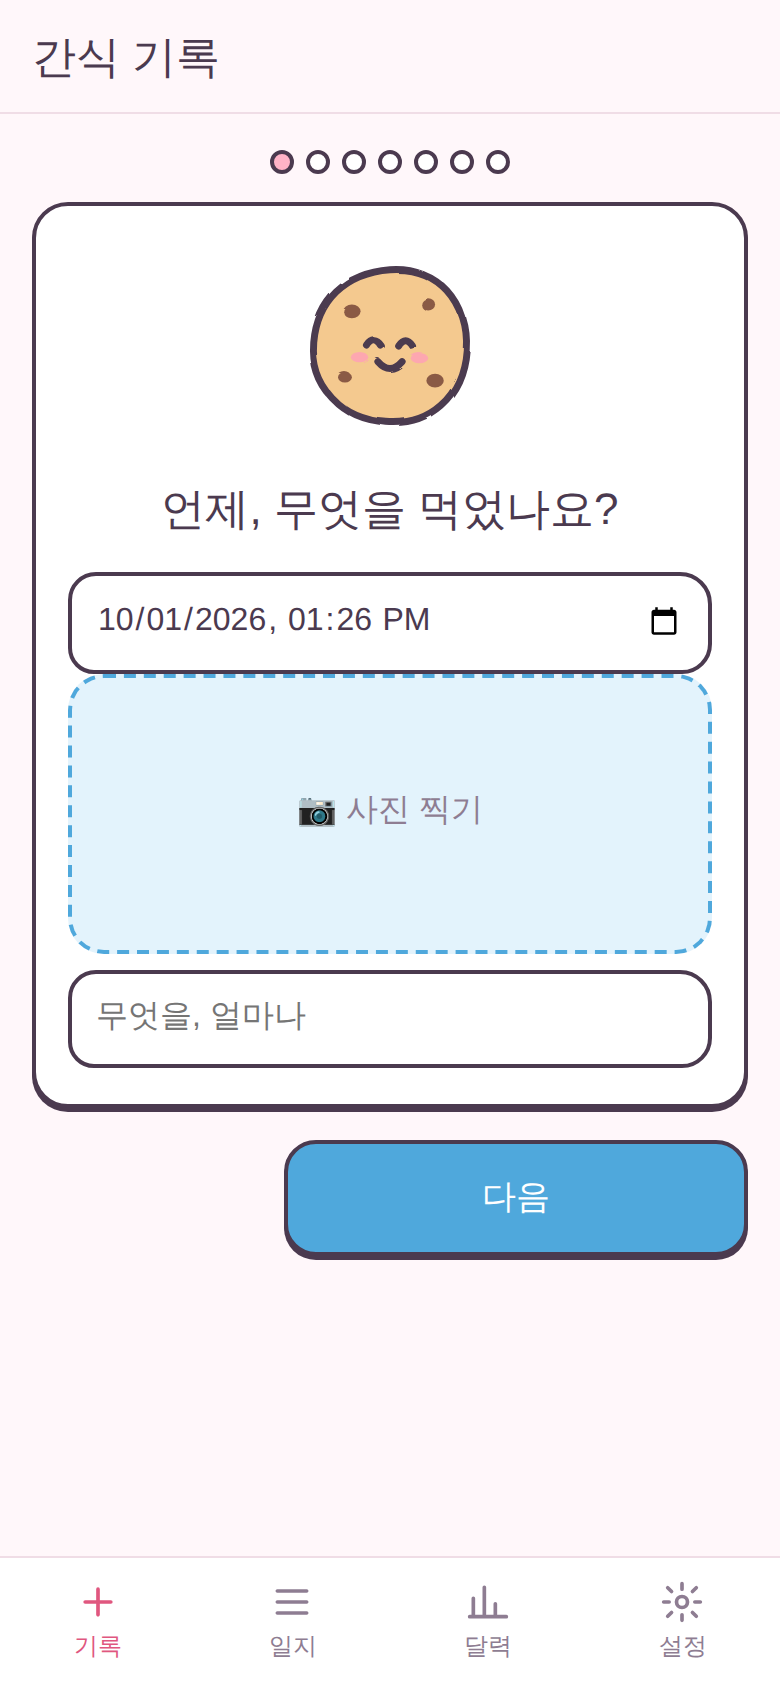
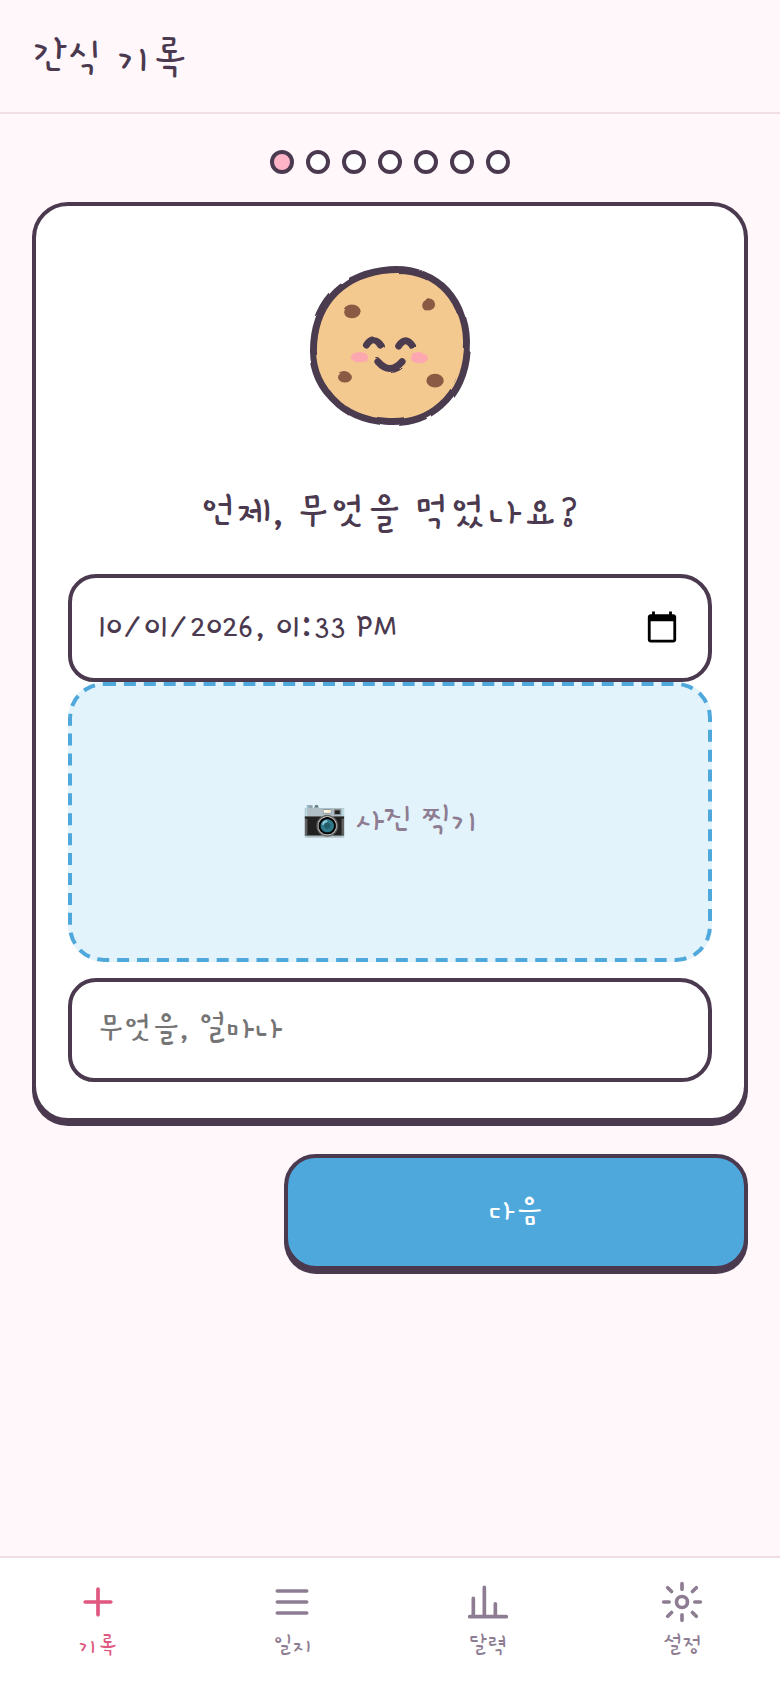
Gamja Flower font, craving scale, per-emotion after-eating satisfaction
- Use Gamja Flower font throughout
- Rename hunger to craving (먹고 싶음); drop emotion intensity and control question
- Add '먹고 난 후' card: 7-cell fill per selected emotion (+1..+7)
- Calendar, list, stats and CSV use the satisfaction data

Claude-Session: https://claude.ai/code/session_01D68hpE9EAyDwW3YvrEEF6Q

diff --git a/app.js b/app.js
@@ -6,9 +6,10 @@ import { character } from './characters.js';
 // 선행 사건(상황) → 신체/정서 상태(배고픔·느낌) → 인지(기대) → 행동(먹은 것)
 const PLACES = ['집', '회사·학교', '이동 중', '카페·식당', '편의점·마트', '기타'];
 const ACTIVITIES = ['일·공부 중', '쉬는 중', 'TV·폰 보는 중', '혼자 있음', '누군가와 함께', '다툼·갈등 후', '식사 직후', '잠들기 전', '할 일 미루는 중', '음식을 봄·냄새 맡음'];
-const EMOTIONS = ['스트레스', '불안', '지루함', '외로움', '슬픔·우울', '짜증·화', '피곤함', '공허함', '죄책감', '기쁨·신남', '편안함', '보상받고 싶음'];
+const EMOTIONS = ['스트레스', '불안', '지루함', '외로움', '슬픔·우울', '짜증·화', '피곤함', '허전함', '단 게 먹고 싶음', '죄책감', '기쁨·신남', '편안함', '보상받고 싶음'];
 const EXPECTATIONS = ['기분이 나아질 것', '스트레스가 풀릴 것', '위로받을 것', '나에게 주는 보상', '지루함이 사라질 것', '에너지가 생길 것', '잠깐 잊을 수 있을 것', '배고픔 해결', '그냥 습관처럼', '조금만 먹고 멈출 수 있을 것'];
-const LOC = { yes: '조절 못 했다', unsure: '잘 모르겠다', no: '조절했다' };
+const LOC = { yes: '조절 못 했다', unsure: '잘 모르겠다', no: '조절했다' }; // 예전 기록 표시용
+const SAT_MAX = 7;
 
 // ───────────────────────── 유틸 ─────────────────────────
 const $ = (sel, root = document) => root.querySelector(sel);
@@ -109,6 +110,16 @@ function wireChoices(root) {
       chip.setAttribute('aria-pressed', String(!on));
       return;
     }
+    const cell = e.target.closest('.sat .cell');
+    if (cell && root.contains(cell)) {
+      const row = cell.closest('.sat');
+      const n = Number(cell.dataset.n);
+      const v = Number(row.dataset.value) === n ? 0 : n; // 같은 칸을 다시 누르면 비움
+      row.dataset.value = v;
+      $$('.cell', row).forEach((c, i) => c.classList.toggle('on', i < v));
+      $('.sat-val', row).textContent = v ? `+${v}` : '';
+      return;
+    }
     const dot = e.target.closest('.dot');
     if (dot && root.contains(dot)) {
       const on = dot.getAttribute('aria-pressed') === 'true';
@@ -120,21 +131,46 @@ function wireChoices(root) {
 
 // 감정·점수 → 캐릭터 표정
 const EMOTION_MOOD = {
-  스트레스: 'worried', 불안: 'worried', '짜증·화': 'worried', 죄책감: 'sad', '슬픔·우울': 'sad', 외로움: 'sad', 공허함: 'sad',
+  스트레스: 'worried', 불안: 'worried', '짜증·화': 'worried', 죄책감: 'sad', '슬픔·우울': 'sad', 외로움: 'sad', 공허함: 'sad', 허전함: 'sad', '단 게 먹고 싶음': 'curious',
   지루함: 'curious', 피곤함: 'calm', '기쁨·신남': 'happy', 편안함: 'calm', '보상받고 싶음': 'curious',
 };
+
+// 먹고 난 후: 감정별 만족도 (1~7칸 채움)
+const avgSat = (sat) => {
+  const v = Object.values(sat || {});
+  return v.length ? v.reduce((a, b) => a + b, 0) / v.length : null;
+};
+const satMood = (avg) => (avg == null ? null : avg >= 5.5 ? 'happy' : avg >= 3.5 ? 'calm' : avg >= 2 ? 'worried' : 'sad');
+
+function satRow(emotion, value) {
+  return `<div class="sat" data-emotion="${esc(emotion)}" data-value="${value || 0}">
+    <span class="sat-label">${esc(emotion)}</span>
+    <div class="sat-cells">${Array.from({ length: SAT_MAX }, (_, i) => `<button type="button" class="cell${i < (value || 0) ? ' on' : ''}" data-n="${i + 1}" aria-label="+${i + 1}"></button>`).join('')}</div>
+    <span class="sat-val">${value ? `+${value}` : ''}</span>
+  </div>`;
+}
+function readSat(root) {
+  const out = {};
+  $$('.sat', root).forEach((r) => {
+    const v = Number(r.dataset.value);
+    if (v) out[r.dataset.emotion] = v;
+  });
+  return out;
+}
+function satBar(value) {
+  return `<span class="sat-cells mini">${Array.from({ length: SAT_MAX }, (_, i) => `<i class="cell${i < value ? ' on' : ''}"></i>`).join('')}</span> <b>+${value}</b>`;
+}
 
 function wireMoods(form) {
   const update = () => {
     $$('.wcard', form).forEach((card) => {
       let mood = null;
       const v = (n) => readScale(card, n);
-      if ($('.scale[data-name=hunger]', card) && v('hunger') != null) mood = v('hunger') >= 7 ? 'happy' : v('hunger') >= 4 ? 'calm' : 'curious';
+      if ($('.scale[data-name=craving]', card) && v('craving') != null) mood = v('craving') >= 7 ? 'worried' : v('craving') >= 4 ? 'curious' : 'calm';
       const em = readChips(card, 'emotions');
       if (em.length) mood = EMOTION_MOOD[em[em.length - 1]] || mood;
-      for (const n of ['intensity']) if ($(`.scale[data-name=${n}]`, card) && v(n) != null) mood = v(n) >= 7 ? 'worried' : v(n) >= 4 ? 'curious' : 'calm';
-      const loc = readChips(card, 'loc')[0];
-      if (loc) mood = loc === LOC.yes ? 'sad' : loc === LOC.no ? 'happy' : 'curious';
+      const sat = readSat(card);
+      if (Object.keys(sat).length) mood = satMood(avgSat(sat));
       if (mood && card.dataset.mood !== mood) {
         card.dataset.mood = mood;
         setMood(card, mood);
@@ -258,17 +294,15 @@ async function renderForm(id) {
       },
       {
         char: 'donut', mood: 'curious',
-        title: '배고픔',
+        title: '먹고 싶음',
         body: `
-          ${scale('hunger', e.hunger, '전혀 안 고픔', '매우 고픔')}`,
+          ${scale('craving', e.craving ?? e.hunger, '조금', '참기 힘들 만큼')}`,
       },
       {
         char: 'icecream', mood: 'curious',
         title: '느낌',
         body: `
           ${chips('emotions', EMOTIONS, e.emotions || [])}
-          <h3>강도</h3>
-          ${scale('intensity', e.intensity, '약함', '매우 강함')}
           <textarea name="feelingNote" rows="2" placeholder="떠오른 생각·몸의 느낌 (선택)">${esc(e.feelingNote)}</textarea>`,
       },
       {
@@ -279,9 +313,17 @@ async function renderForm(id) {
           <textarea name="expectationNote" rows="2" placeholder="직접 적기 (선택)">${esc(e.expectationNote)}</textarea>`,
       },
       {
-        char: 'cookie', mood: 'calm',
-        title: '양을 조절했나요?',
-        body: chips('loc', Object.values(LOC), e.loc ? [LOC[e.loc]] : [], false),
+        char: 'donut', mood: 'calm',
+        title: '먹고 난 후',
+        body: `<p class="hint center">고른 느낌이 얼마나 채워졌나요? (최대 +${SAT_MAX})</p><div class="sat-list"></div>`,
+        onShow: (card) => {
+          const list = $('.sat-list', card);
+          const prev = { ...(e.after || {}), ...readSat(card) };
+          const emos = readChips(form, 'emotions');
+          list.innerHTML = emos.length
+            ? emos.map((em) => satRow(em, prev[em])).join('')
+            : '<p class="hint center">앞에서 고른 느낌이 없어요.</p>';
+        },
       },
       {
         char: 'chips', mood: 'happy',
@@ -295,6 +337,7 @@ async function renderForm(id) {
             ['📍', [readChips(form, 'place')[0], ...readChips(form, 'activity')].filter(Boolean).join(', ')],
             ['💭', readChips(form, 'emotions').join(', ')],
             ['✨', readChips(form, 'expectations').join(', ')],
+            ['🍃', Object.entries(readSat(form)).map(([k, v]) => `${k} +${v}`).join(', ')],
           ].filter(([, v]) => v);
           $('.summary', card).innerHTML = parts.map(([k, v]) => `<div><span>${k}</span>${esc(v)}</div>`).join('');
         },
@@ -328,7 +371,6 @@ async function renderForm(id) {
   form.addEventListener('submit', async (ev) => {
     ev.preventDefault();
     const fd = new FormData(form);
-    const locLabel = readChips(form, 'loc')[0];
     const saved = {
       ...e,
       id: e.id || uid(),
@@ -340,13 +382,12 @@ async function renderForm(id) {
       place: readChips(form, 'place')[0] || '',
       activity: readChips(form, 'activity'),
       situation: fd.get('situation').trim(),
-      hunger: readScale(form, 'hunger'),
+      craving: readScale(form, 'craving'),
       emotions: readChips(form, 'emotions'),
-      intensity: readScale(form, 'intensity'),
       feelingNote: fd.get('feelingNote').trim(),
       expectations: readChips(form, 'expectations'),
       expectationNote: fd.get('expectationNote').trim(),
-      loc: Object.keys(LOC).find((k) => LOC[k] === locLabel) || '',
+      after: readSat(form),
     };
     await db.put(saved);
     toast('저장했어요');
@@ -373,15 +414,19 @@ async function renderEntry(id) {
         ${row('장소', e.place)}
         ${row('하던 일', e.activity)}
         ${row('직전 상황', e.situation)}
-        ${row('배고픔', e.hunger != null ? `${e.hunger} / 10` : '')}
+        ${row('먹고 싶음', (e.craving ?? e.hunger) != null ? `${e.craving ?? e.hunger} / 10` : '')}
         ${row('느낌', e.emotions)}
-        ${row('감정 강도', e.intensity != null ? `${e.intensity} / 10` : '')}
         ${row('생각·몸의 느낌', e.feelingNote)}
         ${row('기대', e.expectations)}
         ${row('기대 메모', e.expectationNote)}
         ${row('조절', LOC[e.loc])}
       </dl>
     </section>
+    ${
+      e.after && Object.keys(e.after).length
+        ? `<section class="card"><h2>먹고 난 후</h2><dl>${Object.entries(e.after).map(([k, v]) => `<div class="row"><dt>${esc(k)}</dt><dd>${satBar(v)}</dd></div>`).join('')}</dl></section>`
+        : ''
+    }
     <div class="actions">
       <a class="button" href="#/edit/${e.id}">수정</a>
       <button type="button" class="danger" id="del">삭제</button>
@@ -417,12 +462,11 @@ async function renderList() {
         ${items
           .map(
             (e) => `<li><a href="#/entry/${e.id}" class="entry">
-              <div class="thumb">${e.photo ? `<img src="${photoUrl(e.photo)}" alt="" loading="lazy" />` : character('cookie', e.loc === 'yes' ? 'worried' : 'happy')}</div>
+              <div class="thumb">${e.photo ? `<img src="${photoUrl(e.photo)}" alt="" loading="lazy" />` : character('cookie', satMood(avgSat(e.after)) || 'calm')}</div>
               <div class="body">
                 <div class="line1"><b>${fmtTime(e.time)}</b> ${esc(e.food || '')}</div>
                 <div class="line2">${[e.place, ...(e.emotions || [])].filter(Boolean).slice(0, 4).map((t) => `<span class="tag">${esc(t)}</span>`).join('')}</div>
               </div>
-              ${e.loc === 'yes' ? '<span class="flag" title="조절 못 함">!</span>' : ''}
             </a></li>`
           )
           .join('')}
@@ -471,12 +515,14 @@ function calendar(all) {
   for (let d = 1; d <= days; d++) {
     const k = `${calMonth}-${pad(d)}`;
     const list = byDay.get(k) || [];
-    const binge = list.some((e) => e.loc === 'yes');
-    if (list.length) binge ? bingeDays++ : okDays++;
-    const cls = ['day-cell', binge ? 'binge' : list.length ? 'ok' : '', k === today ? 'today' : '', k === calDay ? 'sel' : ''].join(' ');
+    const sats = list.map((e) => avgSat(e.after)).filter((v) => v != null);
+    const avg = sats.length ? sats.reduce((a, b) => a + b, 0) / sats.length : null;
+    const low = avg != null && avg < 3.5;
+    if (list.length) low ? bingeDays++ : okDays++;
+    const cls = ['day-cell', low ? 'binge' : list.length ? 'ok' : '', k === today ? 'today' : '', k === calDay ? 'sel' : ''].join(' ');
     cells.push(`<button type="button" class="${cls}" data-day="${k}">
       <span class="d">${d}</span>
-      ${list.length ? character('cookie', binge ? 'sad' : 'happy') : ''}
+      ${list.length ? character('cookie', satMood(avg) || 'calm') : ''}
       ${list.length > 1 ? `<span class="cnt">${list.length}</span>` : ''}
     </button>`);
   }
@@ -490,8 +536,8 @@ function calendar(all) {
     <div class="cal-grid wk">${WEEK.map((w) => `<div>${w}</div>`).join('')}</div>
     <div class="cal-grid">${cells.join('')}</div>
     <div class="cal-legend">
-      <span>${character('cookie', 'sad')} 폭식한 날 <b>${bingeDays}</b></span>
-      <span>${character('cookie', 'happy')} 폭식 없는 날 <b>${okDays}</b></span>
+      <span>${character('cookie', 'worried')} 만족 낮은 날 <b>${bingeDays}</b></span>
+      <span>${character('cookie', 'happy')} 그 외 <b>${okDays}</b></span>
     </div>
     ${
       calDay
@@ -500,7 +546,7 @@ function calendar(all) {
             ${
               sel
                 ? `<ul class="entries">${sel
-                    .map((e) => `<li><a href="#/entry/${e.id}" class="entry"><div class="body"><div class="line1"><b>${fmtTime(e.time)}</b> ${esc(e.food || '')}</div><div class="line2">${(e.emotions || []).slice(0, 3).map((t) => `<span class="tag">${esc(t)}</span>`).join('')}</div></div>${e.loc === 'yes' ? '<span class="flag">!</span>' : ''}</a></li>`)
+                    .map((e) => `<li><a href="#/entry/${e.id}" class="entry"><div class="body"><div class="line1"><b>${fmtTime(e.time)}</b> ${esc(e.food || '')}</div><div class="line2">${(e.emotions || []).slice(0, 3).map((t) => `<span class="tag">${esc(t)}</span>`).join('')}</div></div>${e.after && Object.keys(e.after).length ? `<span class="sat-avg">+${avgSat(e.after).toFixed(1)}</span>` : ''}</a></li>`)
                     .join('')}</ul>`
                 : '<p class="hint">기록 없음</p>'
             }
@@ -524,10 +570,17 @@ async function renderInsights() {
   const hmax = Math.max(1, ...hours);
   const peak = hours.indexOf(Math.max(...hours));
 
-  const lowHunger = list.filter((e) => e.hunger != null && e.hunger <= 3).length;
-  const withHunger = list.filter((e) => e.hunger != null).length;
-  const bingeDays = new Set(list.filter((e) => e.loc === 'yes').map((e) => e.time.slice(0, 10))).size;
+  const cravings = list.map((e) => e.craving ?? e.hunger).filter((v) => v != null);
+  const avgCraving = cravings.length ? cravings.reduce((a, b) => a + b, 0) / cravings.length : null;
   const recDays = new Set(list.map((e) => e.time.slice(0, 10))).size;
+  // 감정별 평균 만족도: 그 느낌이 먹어서 실제로 얼마나 채워졌는지
+  const satBy = new Map();
+  for (const e of list) for (const [k, v] of Object.entries(e.after || {})) {
+    const t = satBy.get(k) || { sum: 0, n: 0 };
+    t.sum += v; t.n++;
+    satBy.set(k, t);
+  }
+  const satRows = [...satBy.entries()].map(([k, t]) => [k, t.sum / t.n, t.n]).sort((a, b) => a[1] - b[1]);
 
   view.innerHTML = `
     ${calendar(all)}
@@ -544,8 +597,8 @@ async function renderInsights() {
         : `
     <div class="stats">
       <div class="stat"><b>${n}</b><span>간식 횟수</span></div>
-      <div class="stat"><b>${bingeDays}<small>/${recDays}일</small></b><span>폭식한 날</span></div>
-      <div class="stat"><b>${withHunger ? Math.round((lowHunger / withHunger) * 100) : '–'}%</b><span>배고프지 않을 때<br/>(배고픔 0–3)</span></div>
+      <div class="stat"><b>${recDays}일</b><span>기록한 날</span></div>
+      <div class="stat"><b>${avgCraving != null ? avgCraving.toFixed(1) : '–'}</b><span>평균 먹고 싶음 (10점)</span></div>
       <div class="stat"><b>${peak}시</b><span>가장 많이 먹는 시간</span></div>
     </div>
 
@@ -558,6 +611,11 @@ async function renderInsights() {
     </section>
 
     <section class="card"><h2>감정</h2>${bars(count(list, (e) => e.emotions), n)}</section>
+    <section class="card"><h2>먹고 난 후 만족도</h2>${
+      satRows.length
+        ? `<p class="hint">느낌별 평균 (최대 +${SAT_MAX})</p><ul class="sat-stats">${satRows.map(([k, avg, c]) => `<li><span class="label">${esc(k)}</span>${satBar(Math.round(avg))}<small>${c}회</small></li>`).join('')}</ul>`
+        : '<p class="hint">"먹고 난 후"를 기록하면 여기에 보여요.</p>'
+    }</section>
     <section class="card"><h2>상황</h2>${bars(count(list, (e) => e.activity), n)}</section>
     <section class="card"><h2>장소</h2>${bars(count(list, (e) => e.place), n)}</section>
     <section class="card"><h2>기대</h2>${bars(count(list, (e) => e.expectations), n)}</section>`
@@ -635,9 +693,9 @@ async function renderSettings() {
 
   $('#csv').addEventListener('click', async () => {
     const list = (await db.all()).reverse();
-    const head = ['시간', '먹은 것', '장소', '하던 일', '직전 상황', '배고픔', '느낌', '감정 강도', '생각·몸의 느낌', '기대', '기대 메모', '조절'];
+    const head = ['시간', '먹은 것', '장소', '하던 일', '직전 상황', '먹고 싶음', '느낌', '생각·몸의 느낌', '기대', '기대 메모', '먹고 난 후'];
     const rows = list.map((e) => {
-      return [e.time.replace('T', ' '), e.food, e.place, e.activity, e.situation, e.hunger, e.emotions, e.intensity, e.feelingNote, e.expectations, e.expectationNote, LOC[e.loc]].map(csvCell).join(',');
+      return [e.time.replace('T', ' '), e.food, e.place, e.activity, e.situation, e.craving ?? e.hunger, e.emotions, e.feelingNote, e.expectations, e.expectationNote, Object.entries(e.after || {}).map(([k, v]) => `${k} +${v}`)].map(csvCell).join(',');
     });
     download(`간식일지_${nowLocal().slice(0, 10)}.csv`, '' + [head.join(','), ...rows].join('\n'), 'text/csv;charset=utf-8');
   });

diff --git a/style.css b/style.css
@@ -216,8 +216,8 @@ dd { margin: 0; white-space: pre-wrap; }
 #toast.show { opacity: 1; transform: translate(-50%, 0); }
 
 /* ───────── 손그림 캐릭터 테마 ───────── */
-body { font-family: "Gowun Dodum", -apple-system, "Apple SD Gothic Neo", "Noto Sans KR", sans-serif; }
-h1, h2, h3, .bubble, .chip, button, .button, .tabbar a, .stat b, .day { font-family: "Jua", "Gowun Dodum", sans-serif; font-weight: 400 !important; }
+body { font-family: "Gamja Flower", -apple-system, "Apple SD Gothic Neo", "Noto Sans KR", sans-serif; }
+h1, h2, h3, .bubble, .chip, button, .button, .tabbar a, .stat b, .day { font-family: "Gamja Flower", sans-serif; font-weight: 400 !important; }
 .topbar { border-bottom: 1.5px solid var(--soft-line); }
 .topbar h1 { font-size: 22px; }
 
@@ -268,7 +268,7 @@ button:active, .button:active { transform: translateY(2px); box-shadow: none; }
 .thumb { border: 2px solid var(--line); background: var(--accent-soft); }
 .thumb .char { width: 46px; height: 46px; }
 .hero { border: 2.5px solid var(--line); box-shadow: var(--shadow); }
-#toast { background: #4b3a4f; color: #fff; font-family: "Jua", sans-serif; }
+#toast { background: #4b3a4f; color: #fff; font-family: "Gamja Flower", sans-serif; }
 
 /* 캐릭터와 말풍선 */
 .char { width: 96px; height: 96px; flex: 0 0 auto; overflow: visible; }
@@ -307,7 +307,7 @@ button:active, .button:active { transform: translateY(2px); box-shadow: none; }
 .wcard.in-left { animation: flipL .32s ease-out; }
 @keyframes flipR { from { opacity: 0; transform: translateX(32px); } }
 @keyframes flipL { from { opacity: 0; transform: translateX(-32px); } }
-.react { font-family: "Jua", sans-serif; font-size: 17px; color: var(--warn); min-height: 1.4em; margin: 16px 4px 0; text-align: center; }
+.react { font-family: "Gamja Flower", sans-serif; font-size: 17px; color: var(--warn); min-height: 1.4em; margin: 16px 4px 0; text-align: center; }
 .wiz-nav {
   position: sticky; bottom: calc(var(--tabbar) + env(safe-area-inset-bottom) + 8px);
   display: grid; grid-template-columns: 1fr 2fr; gap: 10px; margin-top: 16px;
@@ -333,7 +333,7 @@ button:active, .button:active { transform: translateY(2px); box-shadow: none; }
 @keyframes pop { 50% { transform: scale(1.12); } }
 .whead h2 { font-size: 22px; margin: 0; justify-content: center; }
 .wbody h3 small { color: var(--muted); }
-.expected { text-align: center; background: var(--accent-soft); border-radius: 12px; padding: 10px; margin: 0 0 14px; font-family: "Jua", sans-serif; font-size: 17px; }
+.expected { text-align: center; background: var(--accent-soft); border-radius: 12px; padding: 10px; margin: 0 0 14px; font-family: "Gamja Flower", sans-serif; font-size: 17px; }
 .face-row { display: grid; grid-template-columns: repeat(5, 1fr); gap: 6px; }
 .dot.face { aspect-ratio: auto; border-radius: 14px; padding: 4px 0 2px; display: grid; justify-items: center; }
 .dot.face .char { width: 100%; height: auto; max-width: 52px; filter: none; }
@@ -368,3 +368,32 @@ button:active, .button:active { transform: translateY(2px); box-shadow: none; }
 .cal-day .entry { box-shadow: none; border-width: 1.5px; }
 .stat b small { font-size: 14px; color: var(--muted); }
 .center { text-align: center; }
+
+/* 감자꽃체는 획이 가늘어 한 단계 크게 */
+body { font-size: 18px; }
+.chip { font-size: 16px; }
+.hint, .scale-labels, dt { font-size: 15px; }
+
+/* 먹고 난 후: 7칸 채움 */
+.sat-list { display: grid; gap: 14px; }
+.sat { display: grid; grid-template-columns: 1fr auto; gap: 6px 10px; align-items: center; }
+.sat-label { font-size: 18px; }
+.sat-val { font-size: 20px; color: var(--warn); min-width: 2.2em; text-align: right; }
+.sat-cells { grid-column: 1 / -1; display: grid; grid-template-columns: repeat(7, 1fr); gap: 4px; }
+.sat .sat-cells { grid-row: 2; }
+.sat .cell {
+  height: 34px; padding: 0; box-shadow: none; border: 1.5px solid var(--line);
+  border-radius: 8px; background: var(--surface); transition: background .12s;
+}
+.sat .cell.on { background: var(--pink); }
+.sat .cell:active { transform: none; }
+.sat-cells.mini { display: inline-grid; width: 120px; gap: 2px; vertical-align: middle; }
+.sat-cells.mini i { height: 10px; border: 1px solid var(--line); border-radius: 3px; background: var(--surface); }
+.sat-cells.mini i.on { background: var(--pink); }
+.sat-stats { list-style: none; margin: 0; padding: 0; display: grid; gap: 8px; }
+.sat-stats li { display: grid; grid-template-columns: 6.5em 1fr auto auto; gap: 8px; align-items: center; }
+.sat-stats .sat-cells.mini { width: 100%; }
+.sat-stats small { color: var(--muted); }
+.sat-avg { font-size: 14px; color: var(--warn); align-self: center; }
+.sat-stats .sat-cells.mini { grid-column: auto; }
+.sat-stats li > b { font-size: 15px; }

diff --git a/index.html b/index.html
@@ -12,7 +12,7 @@
   <link rel="apple-touch-icon" href="icons/icon.svg" />
   <link rel="preconnect" href="https://fonts.googleapis.com" />
   <link rel="preconnect" href="https://fonts.gstatic.com" crossorigin />
-  <link rel="stylesheet" href="https://fonts.googleapis.com/css2?family=Jua&family=Gowun+Dodum&display=swap" />
+  <link rel="stylesheet" href="https://fonts.googleapis.com/css2?family=Gamja+Flower&display=swap" />
   <link rel="stylesheet" href="style.css" />
 </head>
 <body>

diff --git a/sw.js b/sw.js
@@ -1,5 +1,5 @@
 // 오프라인 사용을 위한 단순 캐시 우선 서비스 워커
-const CACHE = 'snackjournal-v5';
+const CACHE = 'snackjournal-v6';
 const ASSETS = ['./', './index.html', './style.css', './app.js', './db.js', './characters.js', './manifest.webmanifest', './icons/icon.svg'];
 
 self.addEventListener('install', (e) => {
